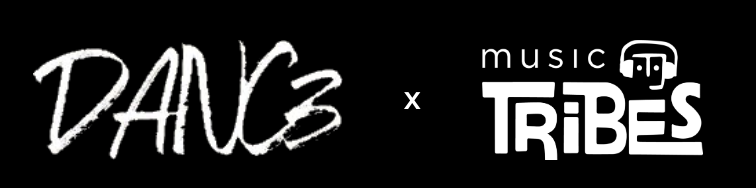
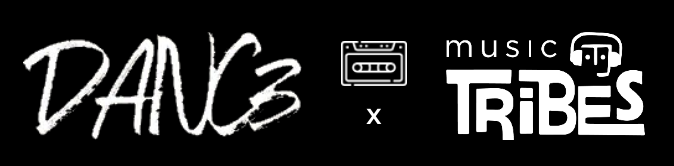
update cassette on main

Changed region(s): [[0.4985, 0.1807, 0.9659, 0.8735], [0.0312, 0.1807, 0.4674, 0.8434], [0.5297, 0.6627, 0.5608, 0.753]]

diff --git a/src/App.tsx b/src/App.tsx
@@ -13,7 +13,7 @@ import './styles/GridStyles.css';
 import danc3Logo from './assets/danc3-logo.png';
 import tribesLogo from './assets/musictribes-tight.png';
 import { Song } from './artist/types';
-import tapeImage from './assets/casette.png';
+import tapeImage from './assets/casette-tight.png';
 
 const appStyle = {
   backgroundColor: '#000000', // Replace with your desired background color or image
@@ -93,7 +93,10 @@ function App() {
     <>
       <div className="image-container">
         <img src={danc3Logo} alt="Danc3" onClick={() => window.location.href = '/'}/>
-        <img src={tapeImage} alt="Danc3" style={{ width: '40px', height: '40px', margin: '20px'  }} onClick={() => window.location.href = '/'}/>
+        <div className='logo-casette'>
+          <img src={tapeImage} alt="Danc3" style={{ width: '40px', height: '26px', margin: '0 20px'  }} onClick={() => window.location.href = '/'}/>
+          <h1>x</h1>
+        </div>
         <img src={tribesLogo} alt="MT" onClick={() => window.location.href = '/'}/>
       </div>
       <div style={{padding: "20px"}}>
